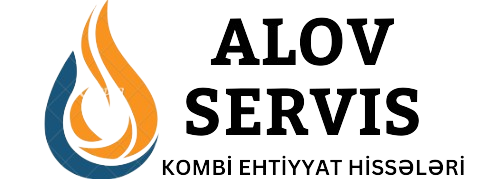
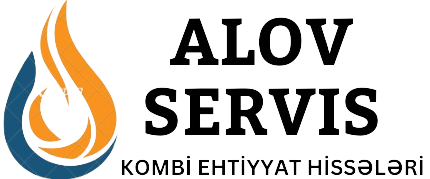
error

diff --git a/index.html b/index.html
@@ -77,10 +77,12 @@
 
     <!-- Navbar & Carousel Start -->
     <div class="container-fluid position-relative p-0">
-        <nav class="navbar navbar-expand-lg navbar-dark px-5 py-3 py-lg-0">
+        <nav class="navbar navbar-expand-lg navbar-dark px-2 py-3 py-lg-0">
+          <div class="img-general-logo">
             <a href="index.html" class="navbar-brand p-0">
-                <img style="width: 230px; height: 78px;" src="./img/Add_a_little_bit_of_body_text__4_-removebg-preview.png" alt=""></i>
+                <img class="img-logo" src="./img/logo-img.png" alt=""></i>
             </a>
+          </div>
             <button class="navbar-toggler" type="button" data-bs-toggle="collapse" data-bs-target="#navbarCollapse">
                 <span class="fa fa-bars"></span>
             </button>

diff --git a/css/style.css b/css/style.css
@@ -653,3 +653,39 @@ height: auto;
         grid-template-columns: 1fr;
     }
   }
+
+
+.img-general-logo{
+    margin-left: 12px;
+    width: 240px;
+    height: 110px;
+}
+  .img-logo{
+width: 100%;
+height: 100%;
+  }
+
+  @media only screen and (max-width: 1200px) {
+    .img-general-logo{
+        margin-left: 10px;
+        width: 180px;
+    
+        height: 80px;
+    }
+  }
+  @media only screen and (max-width: 991px) {
+    .img-general-logo{
+        margin-left: 10px;
+        width: 200px;
+ 
+        height: 85px;
+    }
+  }
+  @media only screen and (max-width: 576px) {
+    .img-general-logo{
+       margin: 3px;
+        width: 150px;
+        width: 100%;
+        height: 66px;
+    }
+  }
